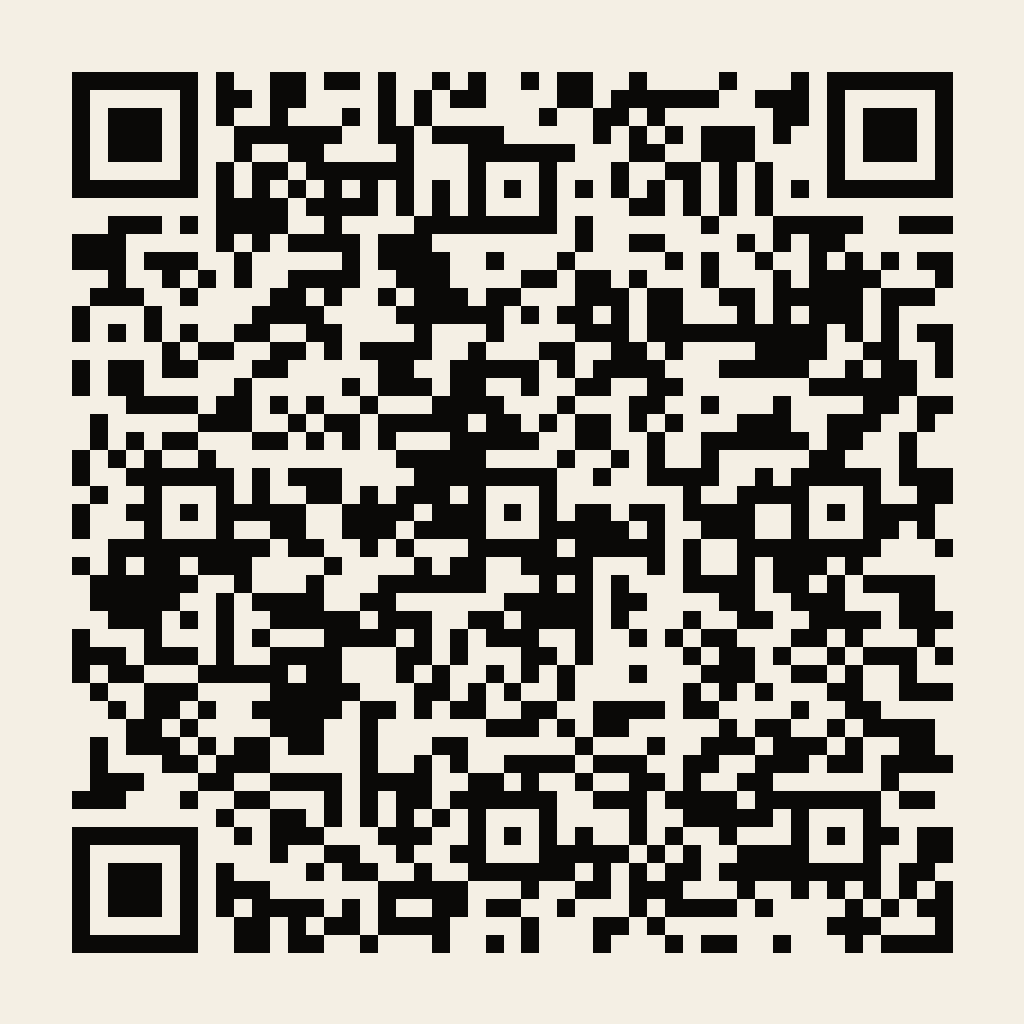
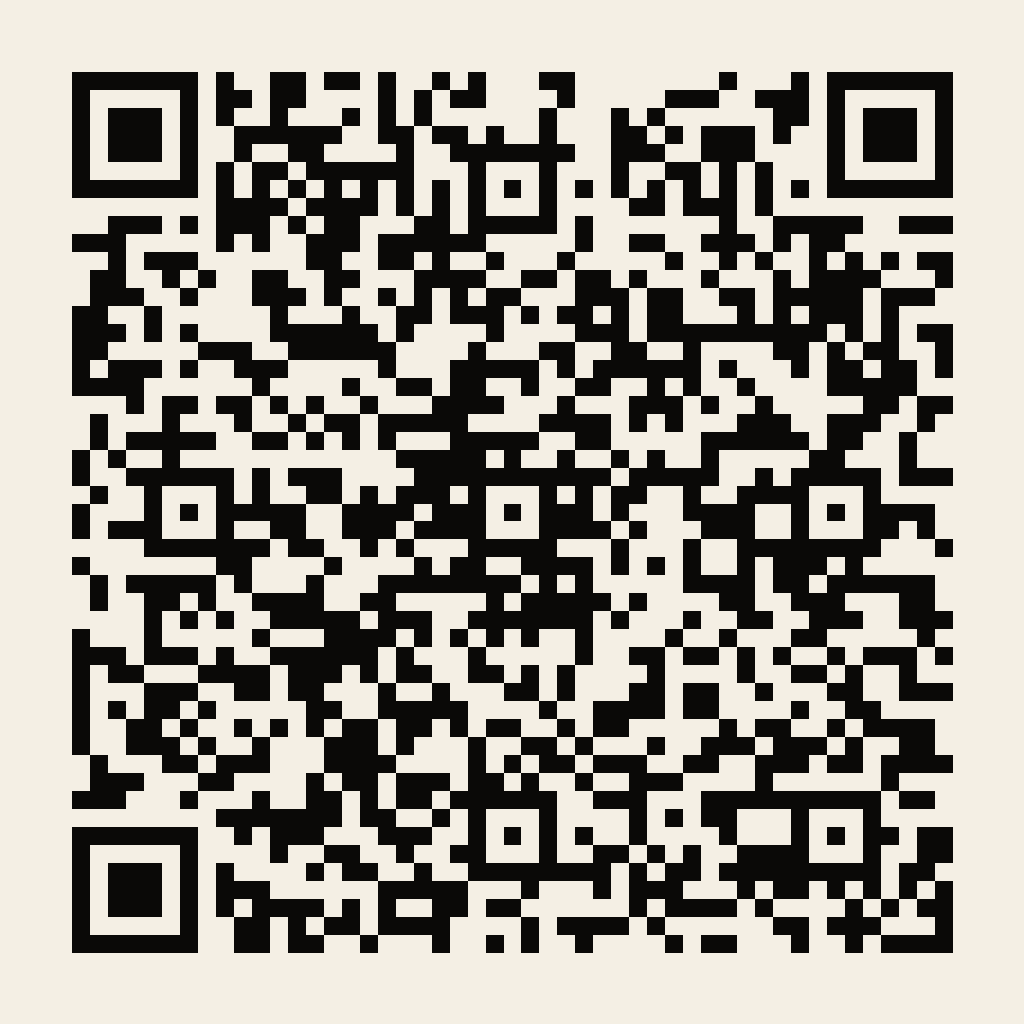
Finalize current APK downloads and release documentation

diff --git a/README.md b/README.md
@@ -19,7 +19,7 @@ The pilot covers request, match, pickup navigation, plate check, boarding PIN, o
 
 ## Current infrastructure
 
-The [public site](https://haan-kolkata-pilot.pages.dev/) and [Worker API](https://haan-api.srimantasutapa123.workers.dev/health) are deployed. The public site currently serves signed v1.0.7 customer and rider APKs. The new signed, tested arm64 builds are `Haan-Customer-arm64-v1.0.10.apk` and `Haan-Rider-arm64-v1.0.9.apk` in the project root. The owner will upload them to Drive, then provide new links for the website buttons and QR codes; production minimum versions remain 8/8 until those links are live. The `haan-kolkata-pilot` Neon project has `production` and `development` branches. The owner super admin is provisioned at `/4632/admin/login/` with password, authenticator code, idle expiry, role checks and audit; credentials remain in ignored `secrets/admin-onboarding.txt`. Driver registration requires a plate, make/model/colour/year, licence number, expiry dates and document uploads; changing a plate or licence requires renewed review. The expanded prototype adds scheduled requests, two stops, guest bookings, Cab shared/intercity previews, destination filtering, promotions and a 20% final-fare commission with manual trip settlement tracking, support triage, and three rider self-cancellations per Kolkata day. Shared mode does not yet match co-passengers, scheduled rides do not reserve a driver, and intercity pricing excludes tolls and return charges. Brevo, Ola Maps, Gemini, Groq and Firebase credentials are configured on the Worker. Google customer login and full two-emulator trips passed, including matching after a fare increase, pickup and drop navigation, boarding PIN, receipt, both rating flows and commission. Temporary QA accounts and their trips were deleted afterward. Background push delivery and physical-device checks remain to be verified before inviting pilot users. See [PROGRESS.md](PROGRESS.md) for current test results.
+The [public site](https://haan-kolkata-pilot.pages.dev/) and [Worker API](https://haan-api.srimantasutapa123.workers.dev/health) are deployed. The site serves the signed, tested arm64 builds `Haan-Customer-arm64-v1.0.10.apk` and `Haan-Rider-arm64-v1.0.9.apk` from Cloudflare Pages; matching download QR codes are in the project root and `web/qr/`. The owner plans to provide Drive links later, at which point `web/links.json` and the QR images can be updated without changing the apps. Production minimum versions are 11/10. The `haan-kolkata-pilot` Neon project has `production` and `development` branches. The owner super admin is provisioned at `/4632/admin/login/` with password, authenticator code, idle expiry, role checks and audit; credentials remain in ignored `secrets/admin-onboarding.txt`. Driver registration requires a plate, make/model/colour/year, licence number, expiry dates and document uploads; changing a plate or licence requires renewed review. The expanded prototype adds scheduled requests, two stops, guest bookings, Cab shared/intercity previews, destination filtering, promotions and a 20% final-fare commission with manual trip settlement tracking, support triage, and three rider self-cancellations per Kolkata day. Shared mode does not yet match co-passengers, scheduled rides do not reserve a driver, and intercity pricing excludes tolls and return charges. Brevo, Ola Maps, Gemini, Groq and Firebase credentials are configured on the Worker. Google customer login and full two-emulator trips passed, including matching after a fare increase, pickup and drop navigation, boarding PIN, receipt, both rating flows and commission. Temporary QA accounts and their trips were deleted afterward. Background push delivery and physical-device checks remain to be verified before inviting pilot users.
 
 ## Local checks
 
@@ -48,7 +48,7 @@ Google sign-in uses the Haan Firebase Auth project and its public web OAuth clie
 3. Configure nonzero free-tier quotas and Worker secrets, then deploy the Worker and verify `/health` and the fare endpoint. The quotas stop provider calls at 80% of the configured daily allowance. Database, session, and admin TOTP secrets are already set in the deployed Worker.
 4. Set `APP_ORIGIN` to the exact Cloudflare Pages origin. Configure the same Worker URL in `web/config.json`.
 5. Enroll the already-created super admin in an authenticator and verify the `/4632/admin/` console. A live TOTP login and dashboard request have passed. The path is only obscurity; backend password, TOTP, role checks, 30-minute idle timeout and audit log enforce security.
-6. Build and emulator-test both apps with one fixed release signing key. Back the key up securely. Upload the two current root APKs to the owner's Drive, update `web/links.json` with their public links, run `node scripts/generate-download-qrs.mjs`, and verify anonymous downloads and both QR codes before publishing the website update.
+6. Build and emulator-test both apps with one fixed release signing key. Back the key up securely. The current APKs are available through Cloudflare Pages. When the owner provides Drive links, update `web/links.json`, run `node scripts/generate-download-qrs.mjs`, and verify anonymous downloads and both QR codes before publishing the website update.
 7. Deploy `web/` to Cloudflare Pages. Check a fresh Android 8+ device, two-phone trip, Hindi/English flows, weak/offline behavior and Lighthouse before inviting pilot users.
 
 ## Design credits

diff --git a/worker/README.md b/worker/README.md
@@ -2,6 +2,6 @@
 
 The Hono Worker owns OTP, sessions, trip rules, matching, fares, assistant calls, place search/routing, rider documents, admin actions and maintenance cron. Neon Postgres stores transactional data; a SQLite-backed Durable Object fans out live trip events and advances timed matching; Workers KV stores rider images. The free plan uses hard daily caps with 80% cutoffs for paid-capable external providers.
 
-Run `npm ci`, `npm run check`, and `npm test`. Run `npx wrangler deploy --dry-run` to check bundling. Deploy only after replacing the KV namespace placeholder, setting `APP_ORIGIN`, setting nonzero provider caps, and adding secrets with Wrangler. `schema.sql` is a one-time migration and is not idempotent. `seed.dev.sql` is only for development.
+Run `npm ci`, `npm run check`, and `npm test`. Run `npx wrangler deploy --dry-run` to check bundling. The deployed pilot's KV namespace, `APP_ORIGIN`, and provider caps are recorded in `wrangler.jsonc`; Worker credentials remain in Cloudflare secrets. Apply new SQL files from `migrations/` to the intended Neon branch before deploying code that needs them. `schema.sql` is for a fresh database and is not idempotent. `seed.dev.sql` is only for development.
 
 The admin bootstrap script needs `DATABASE_URL` and `HAAN_ADMIN_EMAIL` in its process environment. It writes its one-time password, authenticator setup key, and `ADMIN_TOTP_KEY` to an ignored `secrets/admin-onboarding.txt`. Move those credentials to a private password manager and remove the file after setup. Run it once for the owner; the admin console can then create support agents.
